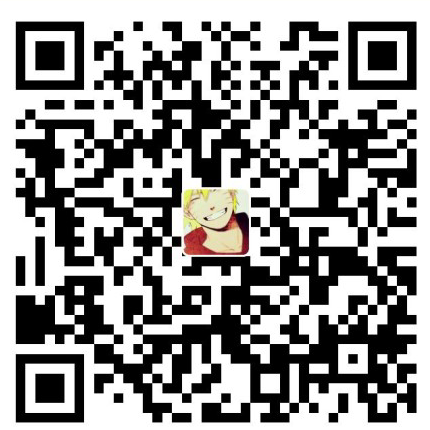
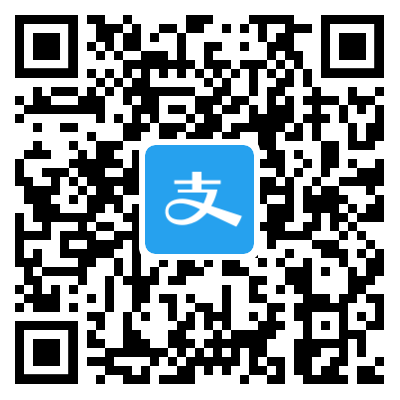
更换收款二维码, 更新UI, 完善逻辑

diff --git a/MainWindow.xaml b/MainWindow.xaml
@@ -42,16 +42,16 @@
         <TextBlock x:Name="TextAbstract" HorizontalAlignment="Center" TextWrapping="Wrap" VerticalAlignment="Top" Height="44" Width="400" Padding="5,5,5,0" FontSize="14" Margin="10,0,10,0" ><Run Text="复制文本后，软件会自动处理，只需打开相应功能，然后直接粘贴即可。" ToolTip="关注公众号, 获取详细教程"/><Run Text="祝君创作顺利，走向人生巅峰！" FontWeight="Bold" /></TextBlock>
 
         <Grid Margin="5,49,5,0" Background="#FFEBEBEB" VerticalAlignment="Top">
-            <mah:ToggleSwitch x:Name="Switch1" MinWidth="0" ContentDirection="LeftToRight" Content="合并换行" FontWeight="Bold" ContentPadding="0,0,-10,0" FontFamily="Microsoft YaHei UI"  VerticalAlignment="Top" Margin="6,0,0,0" ToolTip="复制文本后，直接粘贴到Word中即可生效"/>
+            <mah:ToggleSwitch x:Name="Switch1" MinWidth="0" ContentDirection="LeftToRight" Content="合并换行" FontWeight="Bold" ContentPadding="0,0,-10,0" FontFamily="Microsoft YaHei UI"  VerticalAlignment="Top" Margin="6,0,0,0" ToolTip="复制文本后，直接粘贴到Word中即可"/>
             <mah:ToggleSwitch x:Name="Switch2" MinWidth="0" ContentDirection="LeftToRight" Content="去除空格" FontWeight="Bold" ContentPadding="0,0,-10,0" FontFamily="Microsoft YaHei UI"  VerticalAlignment="Top" Margin="6,33,0,0" ToolTip="仅对中文有效"/>
             <mah:ToggleSwitch x:Name="Switch3" MinWidth="0" ContentDirection="LeftToRight" Content="翻译"    FontWeight="Bold" ContentPadding="0,0,-10,0" FontFamily="Microsoft YaHei UI" VerticalAlignment="Top"  Margin="119,0,0,0" Toggled="Trans_OnToggled" />
             <mah:ToggleSwitch x:Name="Switch4" MinWidth="0" ContentDirection="LeftToRight" Content="翻译弹窗" FontWeight="Bold" ContentPadding="0,0,-10,0" FontFamily="Microsoft YaHei UI" VerticalAlignment="Top" Margin="119,33,0,0" IsEnabled="False" />
 
             <TextBlock HorizontalAlignment="Left" VerticalAlignment="Top" FontWeight="Bold" FontSize="14" Margin="246,40,0,0">翻译引擎</TextBlock>
-            <ComboBox x:Name="TransEngineComboBox" HorizontalAlignment="Left" VerticalAlignment="Top" FontFamily="Microsoft YaHei UI" Margin="312,36,0,0" Width="91">
+            <ComboBox x:Name="TransEngineComboBox" HorizontalAlignment="Left" VerticalAlignment="Top" FontFamily="Microsoft YaHei UI" Margin="312,36,0,0" Width="91" SelectionChanged="TransEngineComboBox_SelectionChanged">
                 <ComboBoxItem IsSelected="True">百度翻译</ComboBoxItem>
                 <ComboBoxItem>谷歌翻译</ComboBoxItem>
-                <ComboBoxItem>DeepL</ComboBoxItem>
+                <!--<ComboBoxItem>DeepL</ComboBoxItem>-->
             </ComboBox>
 
             <TextBlock HorizontalAlignment="Left" VerticalAlignment="Top" Margin="208,9,0,0" FontWeight="Bold" FontSize="11" FontFamily="Microsoft YaHei UI">从</TextBlock>
@@ -65,7 +65,7 @@
                 <ComboBoxItem Content="德语"/>
                 <ComboBoxItem Content="俄语"/>
                 <ComboBoxItem Content="繁体中文"/>
-                <ComboBoxItem Content="文言文"/>
+                <!--<ComboBoxItem Content="文言文"/>-->
             </ComboBox>
 
             <TextBlock HorizontalAlignment="Left" VerticalAlignment="Top" Margin="312,9,0,0" FontWeight="Bold" FontSize="11" FontFamily="Microsoft YaHei UI">到</TextBlock>
@@ -78,7 +78,7 @@
                 <ComboBoxItem Content="德语"/>
                 <ComboBoxItem Content="俄语"/>
                 <ComboBoxItem Content="繁体中文"/>
-                <ComboBoxItem Content="文言文"/>
+                <!--<ComboBoxItem Content="文言文"/>-->
             </ComboBox>
         </Grid>
 
@@ -104,11 +104,9 @@
         <Line X1="0" Y1="0" X2="450" Y2="0" Stroke="#FF3A4FEE" StrokeThickness="2" Margin="0,206,0,0" VerticalAlignment="Top" />
 
         <Grid Margin="0,212,0,0" VerticalAlignment="Top" Height="127">
-            <TextBlock x:Name="TextBlockPay" HorizontalAlignment="Center" TextWrapping="Wrap" VerticalAlignment="Top" Width="164" Text="如果您觉得好用，欢迎捐助" TextAlignment="Center" FontWeight="Bold" ToolTip="感谢感谢感谢, 感谢您的支持!" Margin="128,2,127,0" />
-            <Image Source="/image/Wechat.png" Margin="53,29,0,-2" Width="100" Height="100" VerticalAlignment="Top" HorizontalAlignment="Left" ToolTip="欢迎使用微信支付" />
-            <Image Source="/image/AliPay.png" Margin="0,27,53,-2" Width="102" Height="102" VerticalAlignment="Top" HorizontalAlignment="Right" ToolTip="欢迎使用支付宝" />
-            <Label x:Name="LabelWechat" Content="微 信 支 付" HorizontalAlignment="Left" Margin="69,0,0,91" VerticalAlignment="Bottom" HorizontalContentAlignment="Center" VerticalContentAlignment="Center" FontWeight="Bold" />
-            <Label x:Name="LabelAlipay" Content="支 付 宝" HorizontalAlignment="Left" Margin="288,0,0,90" VerticalAlignment="Bottom" VerticalContentAlignment="Center" HorizontalContentAlignment="Center" FontWeight="Bold" />
+            <TextBlock x:Name="TextBlockPay" HorizontalAlignment="Center" TextWrapping="Wrap" VerticalAlignment="Top" Width="164" Text="如果您觉得好用，欢迎捐助" TextAlignment="Center" FontWeight="Bold" ToolTip="感谢感谢感谢, 感谢您的支持!" Margin="128,4,127,0" />
+            <Image Source="/image/Wechat.png" Margin="60,27,0,0" Width="100" Height="100" VerticalAlignment="Top" HorizontalAlignment="Left" ToolTip="欢迎使用微信支付" />
+            <Image Source="/image/AliPay.png" Margin="0,27,60,0" Width="100" Height="100" VerticalAlignment="Top" HorizontalAlignment="Right" ToolTip="欢迎使用支付宝" />
         </Grid>
     </Grid>
     <!--<Window.InputBindings>

diff --git a/TranslateResult.xaml b/TranslateResult.xaml
@@ -3,9 +3,10 @@
         xmlns:x="http://schemas.microsoft.com/winfx/2006/xaml"
         xmlns:d="http://schemas.microsoft.com/expression/blend/2008"
         xmlns:mc="http://schemas.openxmlformats.org/markup-compatibility/2006"
-        xmlns:local="clr-namespace:CopyPlusPlus"
-        mc:Ignorable="d" Height="111" Width="227" SizeToContent="Height" ResizeMode="CanResizeWithGrip" ShowInTaskbar="False" WindowStartupLocation="CenterScreen" HorizontalAlignment="Stretch" Topmost="True" WindowStyle="SingleBorderWindow">
+        mc:Ignorable="d" SizeToContent="WidthAndHeight" ResizeMode="CanResizeWithGrip" ShowInTaskbar="False" WindowStartupLocation="CenterScreen" Topmost="True" WindowStyle="SingleBorderWindow" MaxWidth="700" MaxHeight="1000">
 
-    <TextBox x:Name="TextBox" Margin="3,1,3,5" Text="TextBox" TextWrapping="Wrap" HorizontalAlignment="Stretch" Padding="3,3,3,3" IsUndoEnabled="True" FontSize="16" AllowDrop="False" FontFamily="Microsoft YaHei UI" AcceptsReturn="True" AcceptsTab="True" AutoWordSelection="True"/>
+    <TextBox x:Name="TextBox" Text="TextBox" TextWrapping="Wrap" Margin="3,1,3,3" Padding="3,3,3,3" 
+             IsUndoEnabled="True" AllowDrop="False" AcceptsReturn="True" AcceptsTab="True" AutoWordSelection="True"
+             FontSize="16" FontFamily="Microsoft YaHei UI" />
 
 </Window>

diff --git a/MainWindow.xaml.cs b/MainWindow.xaml.cs
@@ -6,6 +6,7 @@ using System.Net;
 using System.Security.Cryptography;
 using System.Text;
 using System.Text.RegularExpressions;
+using System.Threading;
 using System.Threading.Tasks;
 using System.Web;
 using System.Windows;
@@ -30,7 +31,7 @@ namespace CopyPlusPlus
     {
         //Is the translate API being changed or not, bool声明默认值为false
         public static bool ChangeStatus;
-        private bool _firstClipboardChange = true;
+        private int _firstClipboardChange = 0;
 
         //public SharpClipboard Clipboard;
 
@@ -62,10 +63,6 @@ namespace CopyPlusPlus
             TranslateKey = Api.BaiduApi[i, 1];
 
             //读取上次关闭时保存的每个Switch的状态
-            //Switch1Check = Settings.Default.Switch1Check;
-            //Switch2Check = Settings.Default.Switch2Check;
-            //Switch3Check = Settings.Default.Switch3Check;
-            //Switch4Check = Settings.Default.Switch4Check;
             Switch1.IsOn = Settings.Default.Switch1Check;
             Switch2.IsOn = Settings.Default.Switch2Check;
             Switch3.IsOn = Settings.Default.Switch3Check;
@@ -74,12 +71,6 @@ namespace CopyPlusPlus
             TransFromComboBox.SelectedIndex = Settings.Default.TransFrom;
             TransToComboBox.SelectedIndex = Settings.Default.TransTo;
             TransEngineComboBox.SelectedIndex = Settings.Default.TransEngine;
-
-            //Switch1默认为开启,所以判断为false,其他反之
-            //if (Switch1Check == false) Switch1.IsOn = false;
-            //if (Switch2Check) Switch2.IsOn = true;
-            //if (Switch3Check) Switch3.IsOn = true;
-            //if (Switch4Check) Switch4.IsOn = true;
         }
 
         protected override void OnSourceInitialized(EventArgs e)
@@ -93,13 +84,9 @@ namespace CopyPlusPlus
 
         private async void ClipboardChanged(object sender, EventArgs e)
         {
-            //Switch1.IsOn = Switch1Check;
-            //Switch2.IsOn = Switch2Check;
-            //Switch3.IsOn = Switch3Check;
-            //Switch4.IsOn = Switch4Check;
-
-            if (_firstClipboardChange)
+            if (_firstClipboardChange == 0)
             {
+                _firstClipboardChange++;
                 // Handle your clipboard update
                 if (Clipboard.ContainsText())
                 {
@@ -135,57 +122,61 @@ namespace CopyPlusPlus
                         }
 
                     if (Switch3.IsOn)
-                        if (ChangeStatus == false)
-                            //判断中文
-                            if (!Regex.IsMatch(text, @"[\u4e00-\u9fa5]"))
+                        //判断中文
+                        if (!Regex.IsMatch(text, @"[\u4e00-\u9fa5]"))
+                        {
+                            var appId = TranslateId;
+                            var secretKey = TranslateKey;
+                            if (Settings.Default.AppID != "none" && Settings.Default.SecretKey != "none")
                             {
-                                var appId = TranslateId;
-                                var secretKey = TranslateKey;
-                                if (Settings.Default.AppID != "none" && Settings.Default.SecretKey != "none")
-                                {
-                                    appId = Settings.Default.AppID;
-                                    secretKey = Settings.Default.SecretKey;
-                                }
-
-                                //这个if已经无效
-                                if (appId == "none" || secretKey == "none")
-                                {
-                                    //MessageBox.Show("请先设置翻译接口", "Copy++");
-                                    Show_InputAPIWindow();
-                                }
-                                else
-                                {
-                                    //Debug.WriteLine(text);
-                                    switch (TransEngineComboBox.Text)
-                                    {
-                                        case "百度翻译":
-                                            text = BaiduTrans(appId, secretKey, text);
-                                            ShowTrans(text);
-                                            break;
-                                        case "谷歌翻译":
-                                            //初始化
-                                            var translator = new GoogleTranslator();
-                                            Encoding.RegisterProvider(CodePagesEncodingProvider.Instance);
-                                            
-                                            Language from;
-                                            @from = TransFromComboBox.Text == "检测语言" ? new Language("Automatic", "auto") : GoogleTranslator.GetLanguageByISO(GoogleLanguage.GetLanguage[TransFromComboBox.Text]);
-
-                                            Language to = GoogleTranslator.GetLanguageByISO(GoogleLanguage.GetLanguage[TransToComboBox.Text]);
-
-                                            var result = await translator.TranslateAsync(text, from, to);
-
-                                            //Console.WriteLine($"Result 1: {result.MergedTranslation}");
-                                            text = result.MergedTranslation;
-                                            ShowTrans(text);
-                                            break;
-                                        case "DeepL":
-                                            DeepL(text);
-                                            break;
-                                    }
-
-                                    //Debug.WriteLine(text);
-                                }
+                                appId = Settings.Default.AppID;
+                                secretKey = Settings.Default.SecretKey;
                             }
+
+                            //这个if已经无效
+                            if (appId == "none" || secretKey == "none")
+                            {
+                                //MessageBox.Show("请先设置翻译接口", "Copy++");
+                                Show_InputAPIWindow();
+                            }
+                            else
+                            {
+                                //Debug.WriteLine(text);
+                                switch (TransEngineComboBox.Text)
+                                {
+                                    case "百度翻译":
+                                        text = BaiduTrans(appId, secretKey, text);
+                                        ShowTrans(text);
+                                        break;
+                                    case "谷歌翻译":
+                                        //初始化
+                                        var translator = new GoogleTranslator();
+                                        Encoding.RegisterProvider(CodePagesEncodingProvider.Instance);
+
+                                        Language from;
+                                        @from = TransFromComboBox.Text == "检测语言" ? new Language("Automatic", "auto") : GoogleTranslator.GetLanguageByISO(GoogleLanguage.GetLanguage[TransFromComboBox.Text]);
+
+                                        Language to = GoogleTranslator.GetLanguageByISO(GoogleLanguage.GetLanguage[TransToComboBox.Text]);
+
+                                        //var result = await translator.TranslateAsync(text, from, to);
+                                        var result = Task.Run(async () => await translator.TranslateAsync(text, from, to)).Result;
+
+
+                                        //Console.WriteLine($"Result 1: {result.MergedTranslation}");
+                                        text = result.MergedTranslation;
+                                        ShowTrans(text);
+                                        break;
+                                    //会打开多个窗口,未通
+                                    case "DeepL":
+                                        //DeepL(text);
+                                        text = text.Replace(" ", "%20");
+                                        Process.Start("https://www.deepl.com/translator#en/zh/" + text);
+                                        break;
+                                }
+
+                                //Debug.WriteLine(text);
+                            }
+                        }
 
                     //stop monitoring to prevent loop
                     //Clipboard.StopMonitoring();
@@ -204,11 +195,11 @@ namespace CopyPlusPlus
                     //_windowClipboardManager.ClipboardChanged += ClipboardChanged;
                 }
 
-                _firstClipboardChange = false;
+
             }
             else
             {
-                _firstClipboardChange = true;
+                _firstClipboardChange = 0;
             }
         }
 
@@ -441,6 +432,13 @@ namespace CopyPlusPlus
         private void Trans_OnToggled(object sender, RoutedEventArgs e)
         {
             Switch4.IsEnabled = Switch3.IsOn;
+        }
+
+        private void TransEngineComboBox_SelectionChanged(object sender, System.Windows.Controls.SelectionChangedEventArgs e)
+        {
+            if (TransEngineComboBox.Text == "谷歌翻译")
+            {
+            }
         }
     }
 }

diff --git a/Languages/BaiduLanguage.cs b/Languages/BaiduLanguage.cs
@@ -9,13 +9,13 @@ namespace CopyPlusPlus.Languages
             {"检测语言", "auto"},
             {"中文", "zh"},
             {"英语", "en"},
-            {"文言文", "wyw"},
             {"日语", "jp"},
             {"韩语", "kor"},
             {"法语", "fra"},
             {"德语", "de"},
             {"俄语", "ru"},
-            {"繁体中文", "cht"}
+            {"繁体中文", "cht"},
+            {"文言文", "wyw"}
         };
     }
 }

diff --git a/Languages/GoogleLanguage.cs b/Languages/GoogleLanguage.cs
@@ -7,7 +7,7 @@ namespace CopyPlusPlus.Languages
         public static Dictionary<string, string> GetLanguage = new Dictionary<string, string>()
         {
             {"检测语言", "auto"},
-            {"中文", "zh_ch"},
+            {"中文", "zh-cn"},
             {"英语", "en"},
             {"日语", "ja"},
             {"韩语", "ko"},
